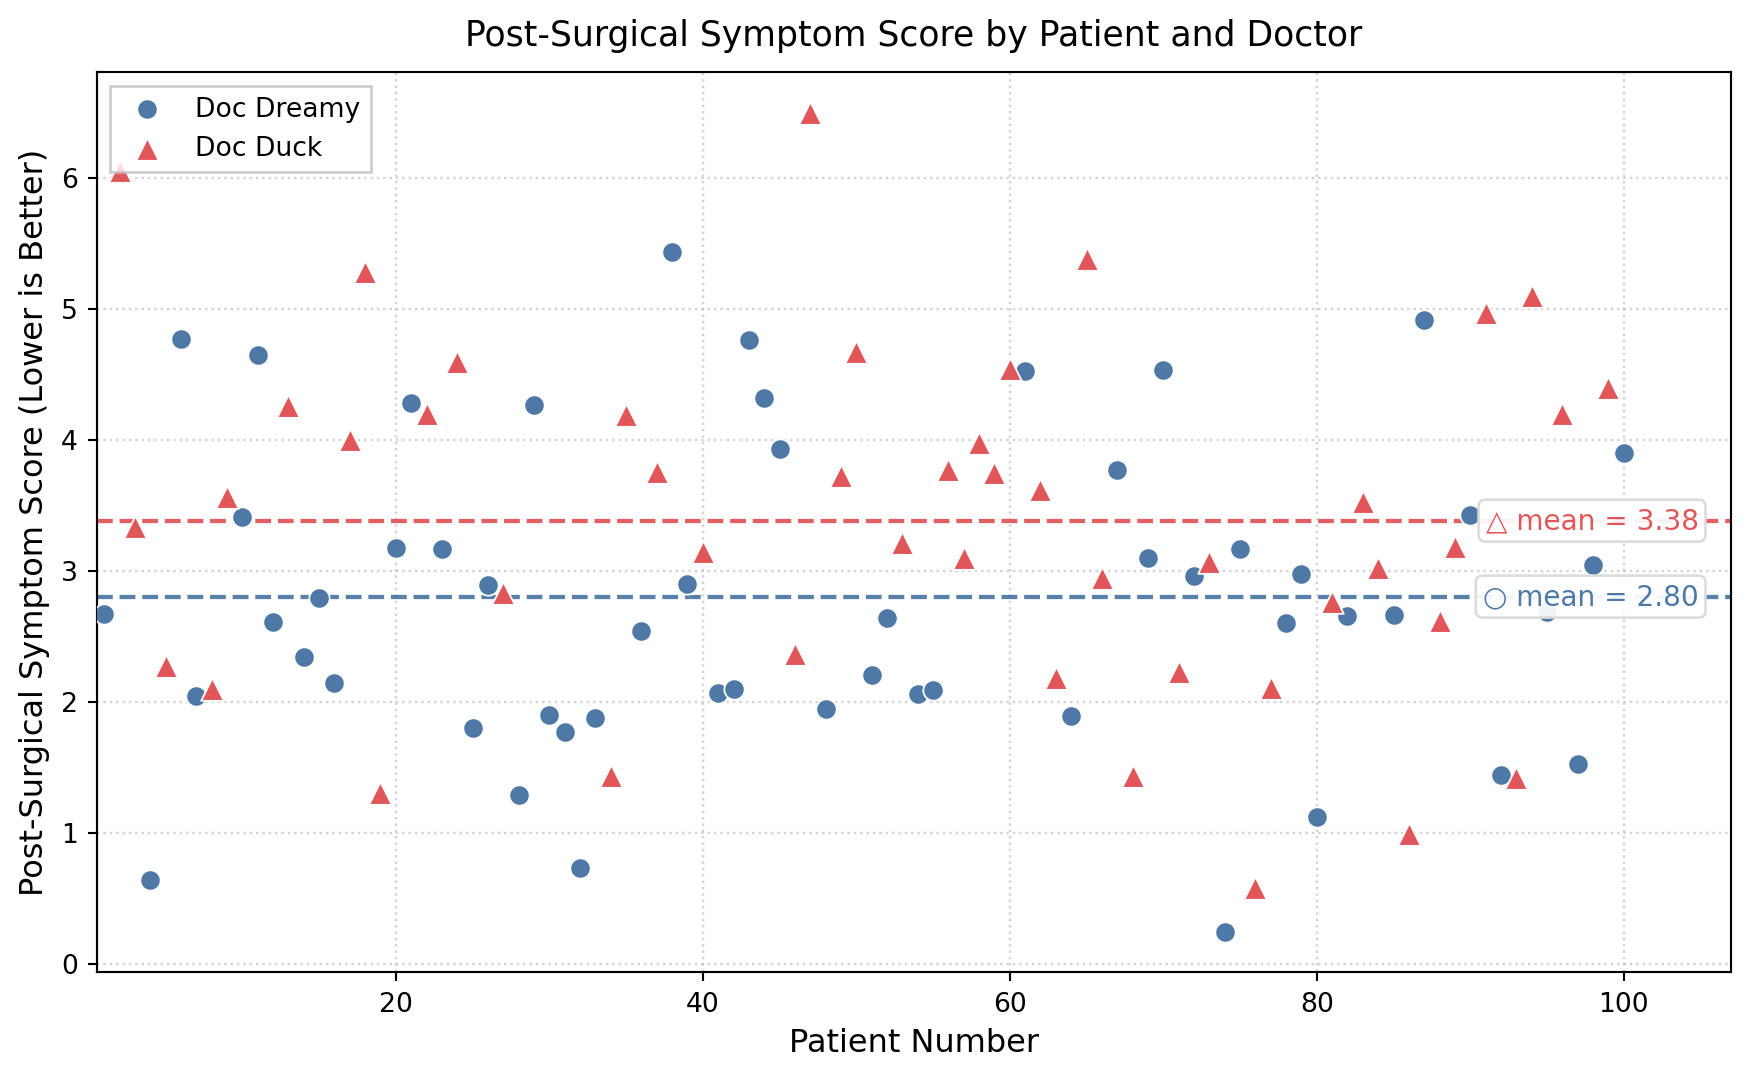
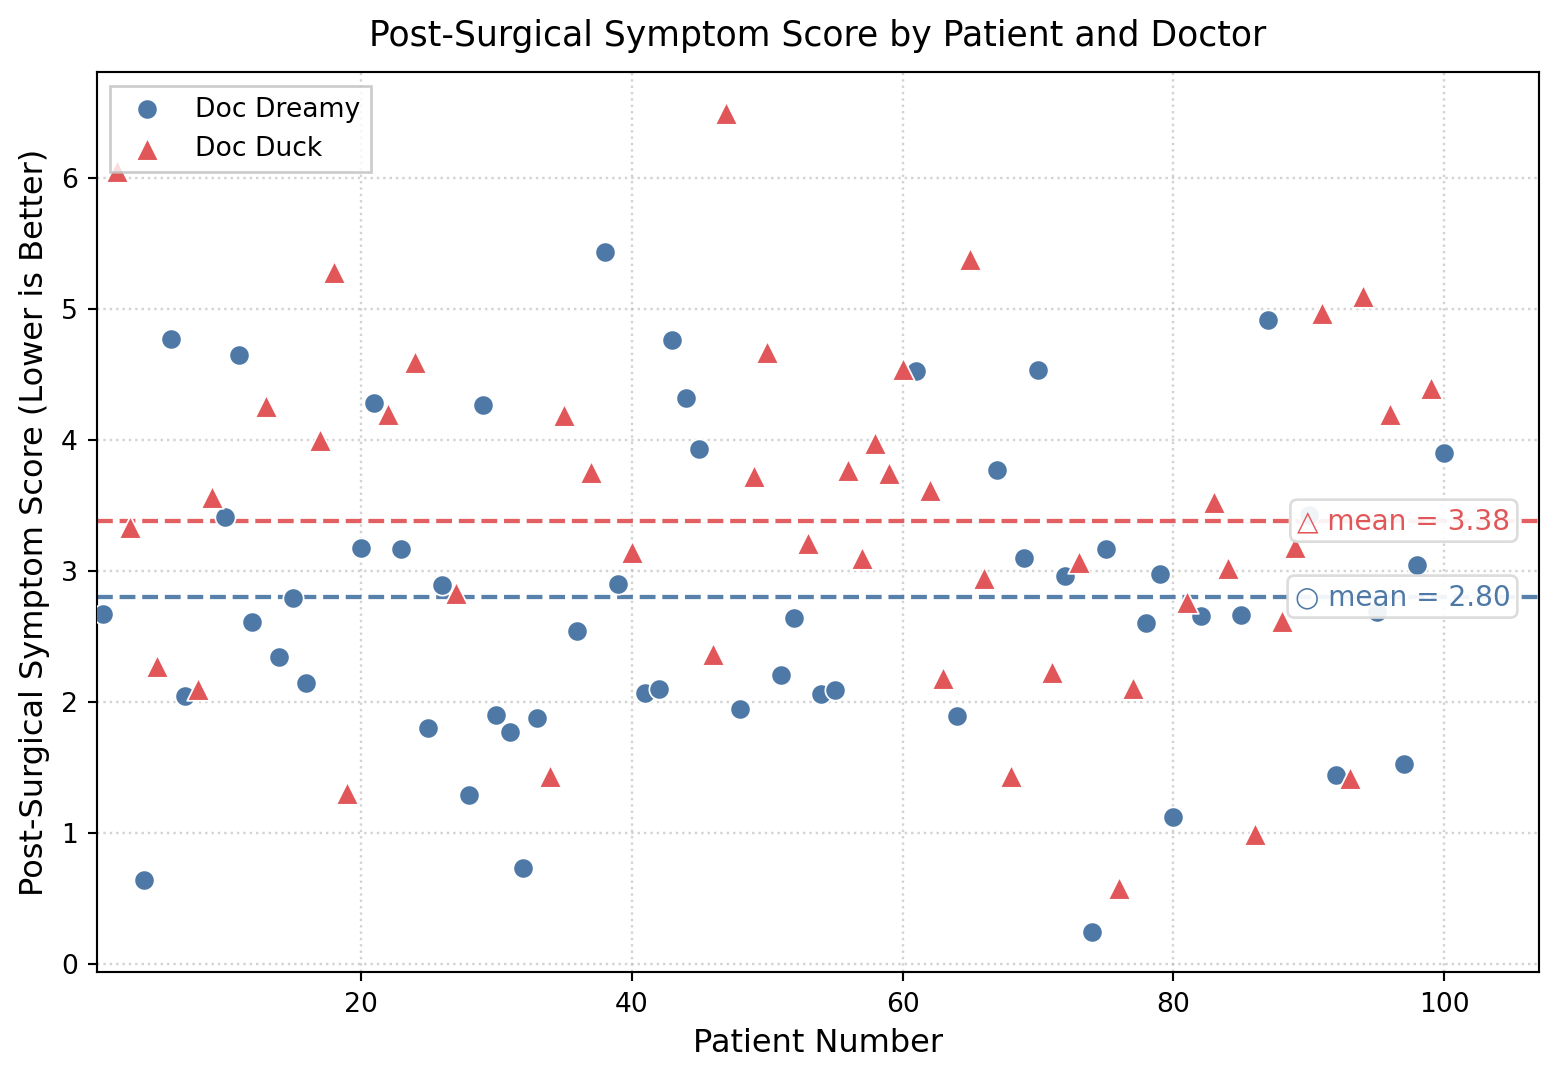
Changed visualization size~

diff --git a/index.html b/index.html
@@ -143,7 +143,7 @@ window.Quarto = {
 <div class="cell-output cell-output-stdout">
 <pre><code>Number of patients: 100</code></pre>
 </div>
-<div id="load-data-python" class="cell-output cell-output-display" data-execution_count="9">
+<div id="load-data-python" class="cell-output cell-output-display" data-execution_count="2">
 <div>
 
 
@@ -214,7 +214,7 @@ window.Quarto = {
 <div id="fig-plot-outcomes" class="quarto-float quarto-figure quarto-figure-center anchored">
 <figure class="quarto-float quarto-float-fig figure">
 <div aria-describedby="fig-plot-outcomes-caption-0ceaefa1-69ba-4598-a22c-09a6ac19f8ca">
-<img src="index_files/figure-html/fig-plot-outcomes-output-1.png" width="875" height="539" class="figure-img">
+<img src="index_files/figure-html/fig-plot-outcomes-output-1.png" width="779" height="539" class="figure-img">
 </div>
 <figcaption class="quarto-float-caption-bottom quarto-float-caption quarto-float-fig" id="fig-plot-outcomes-caption-0ceaefa1-69ba-4598-a22c-09a6ac19f8ca">
 Figure&nbsp;1: Post-Surgical Symptom Score (lower is better) - Observed Data
@@ -302,7 +302,7 @@ Figure&nbsp;4: DAG Model Explaining Surgical Outcomes
 <div class="cell-output cell-output-stdout">
 <pre><code>Number of randomized patients: 100</code></pre>
 </div>
-<div id="load-data-randomized-python" class="cell-output cell-output-display" data-execution_count="12">
+<div id="load-data-randomized-python" class="cell-output cell-output-display" data-execution_count="5">
 <div>
 
 
@@ -374,7 +374,7 @@ Figure&nbsp;4: DAG Model Explaining Surgical Outcomes
 <div id="fig-plot-outcomes-randomized" class="quarto-float quarto-figure quarto-figure-center anchored">
 <figure class="quarto-float quarto-float-fig figure">
 <div aria-describedby="fig-plot-outcomes-randomized-caption-0ceaefa1-69ba-4598-a22c-09a6ac19f8ca">
-<img src="index_files/figure-html/fig-plot-outcomes-randomized-output-1.png" width="875" height="539" class="figure-img">
+<img src="index_files/figure-html/fig-plot-outcomes-randomized-output-1.png" width="779" height="539" class="figure-img">
 </div>
 <figcaption class="quarto-float-caption-bottom quarto-float-caption quarto-float-fig" id="fig-plot-outcomes-randomized-caption-0ceaefa1-69ba-4598-a22c-09a6ac19f8ca">
 Figure&nbsp;5: Post-Surgical Symptom Score (lower is better) for randomized patients.
@@ -396,7 +396,7 @@ Figure&nbsp;5: Post-Surgical Symptom Score (lower is better) for randomized pati
 <div id="fig-plot-outcomes-severity" class="quarto-float quarto-figure quarto-figure-center anchored">
 <figure class="quarto-float quarto-float-fig figure">
 <div aria-describedby="fig-plot-outcomes-severity-caption-0ceaefa1-69ba-4598-a22c-09a6ac19f8ca">
-<img src="index_files/figure-html/fig-plot-outcomes-severity-output-1.png" width="875" height="539" class="figure-img">
+<img src="index_files/figure-html/fig-plot-outcomes-severity-output-1.png" width="779" height="539" class="figure-img">
 </div>
 <figcaption class="quarto-float-caption-bottom quarto-float-caption quarto-float-fig" id="fig-plot-outcomes-severity-caption-0ceaefa1-69ba-4598-a22c-09a6ac19f8ca">
 Figure&nbsp;6: Post-Surgical Symptom Score (lower is better) by Patient and Severity
